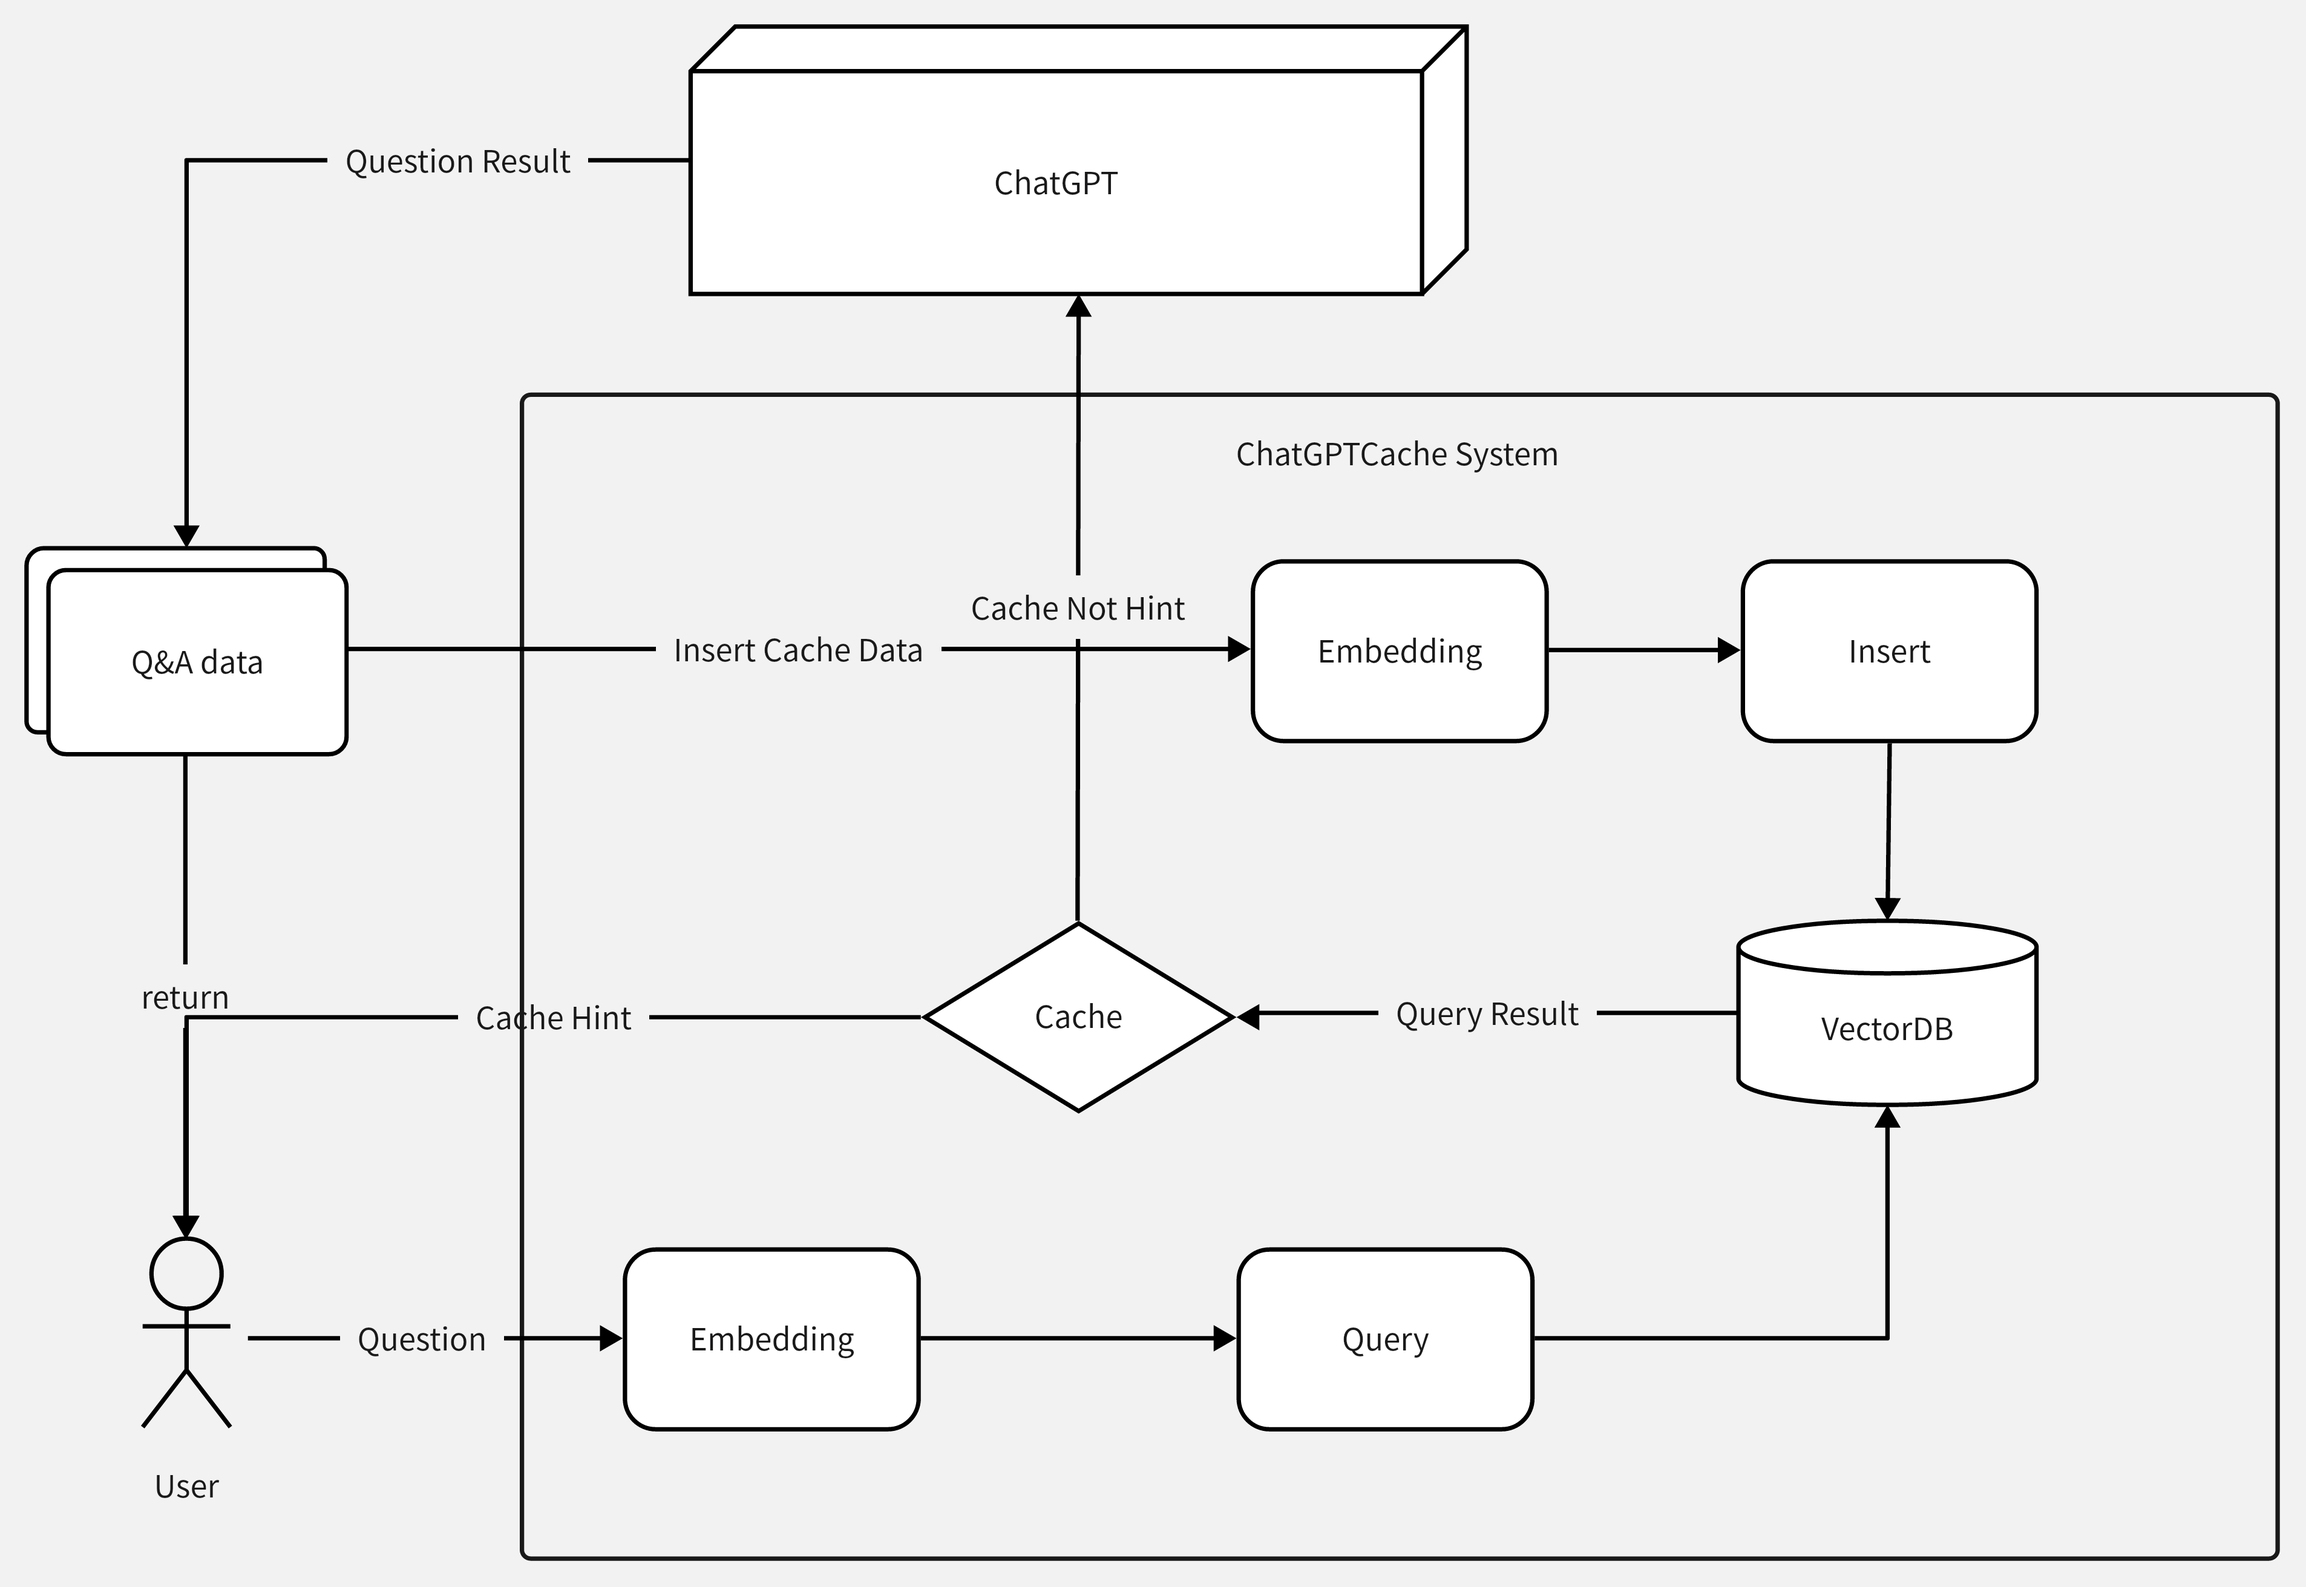
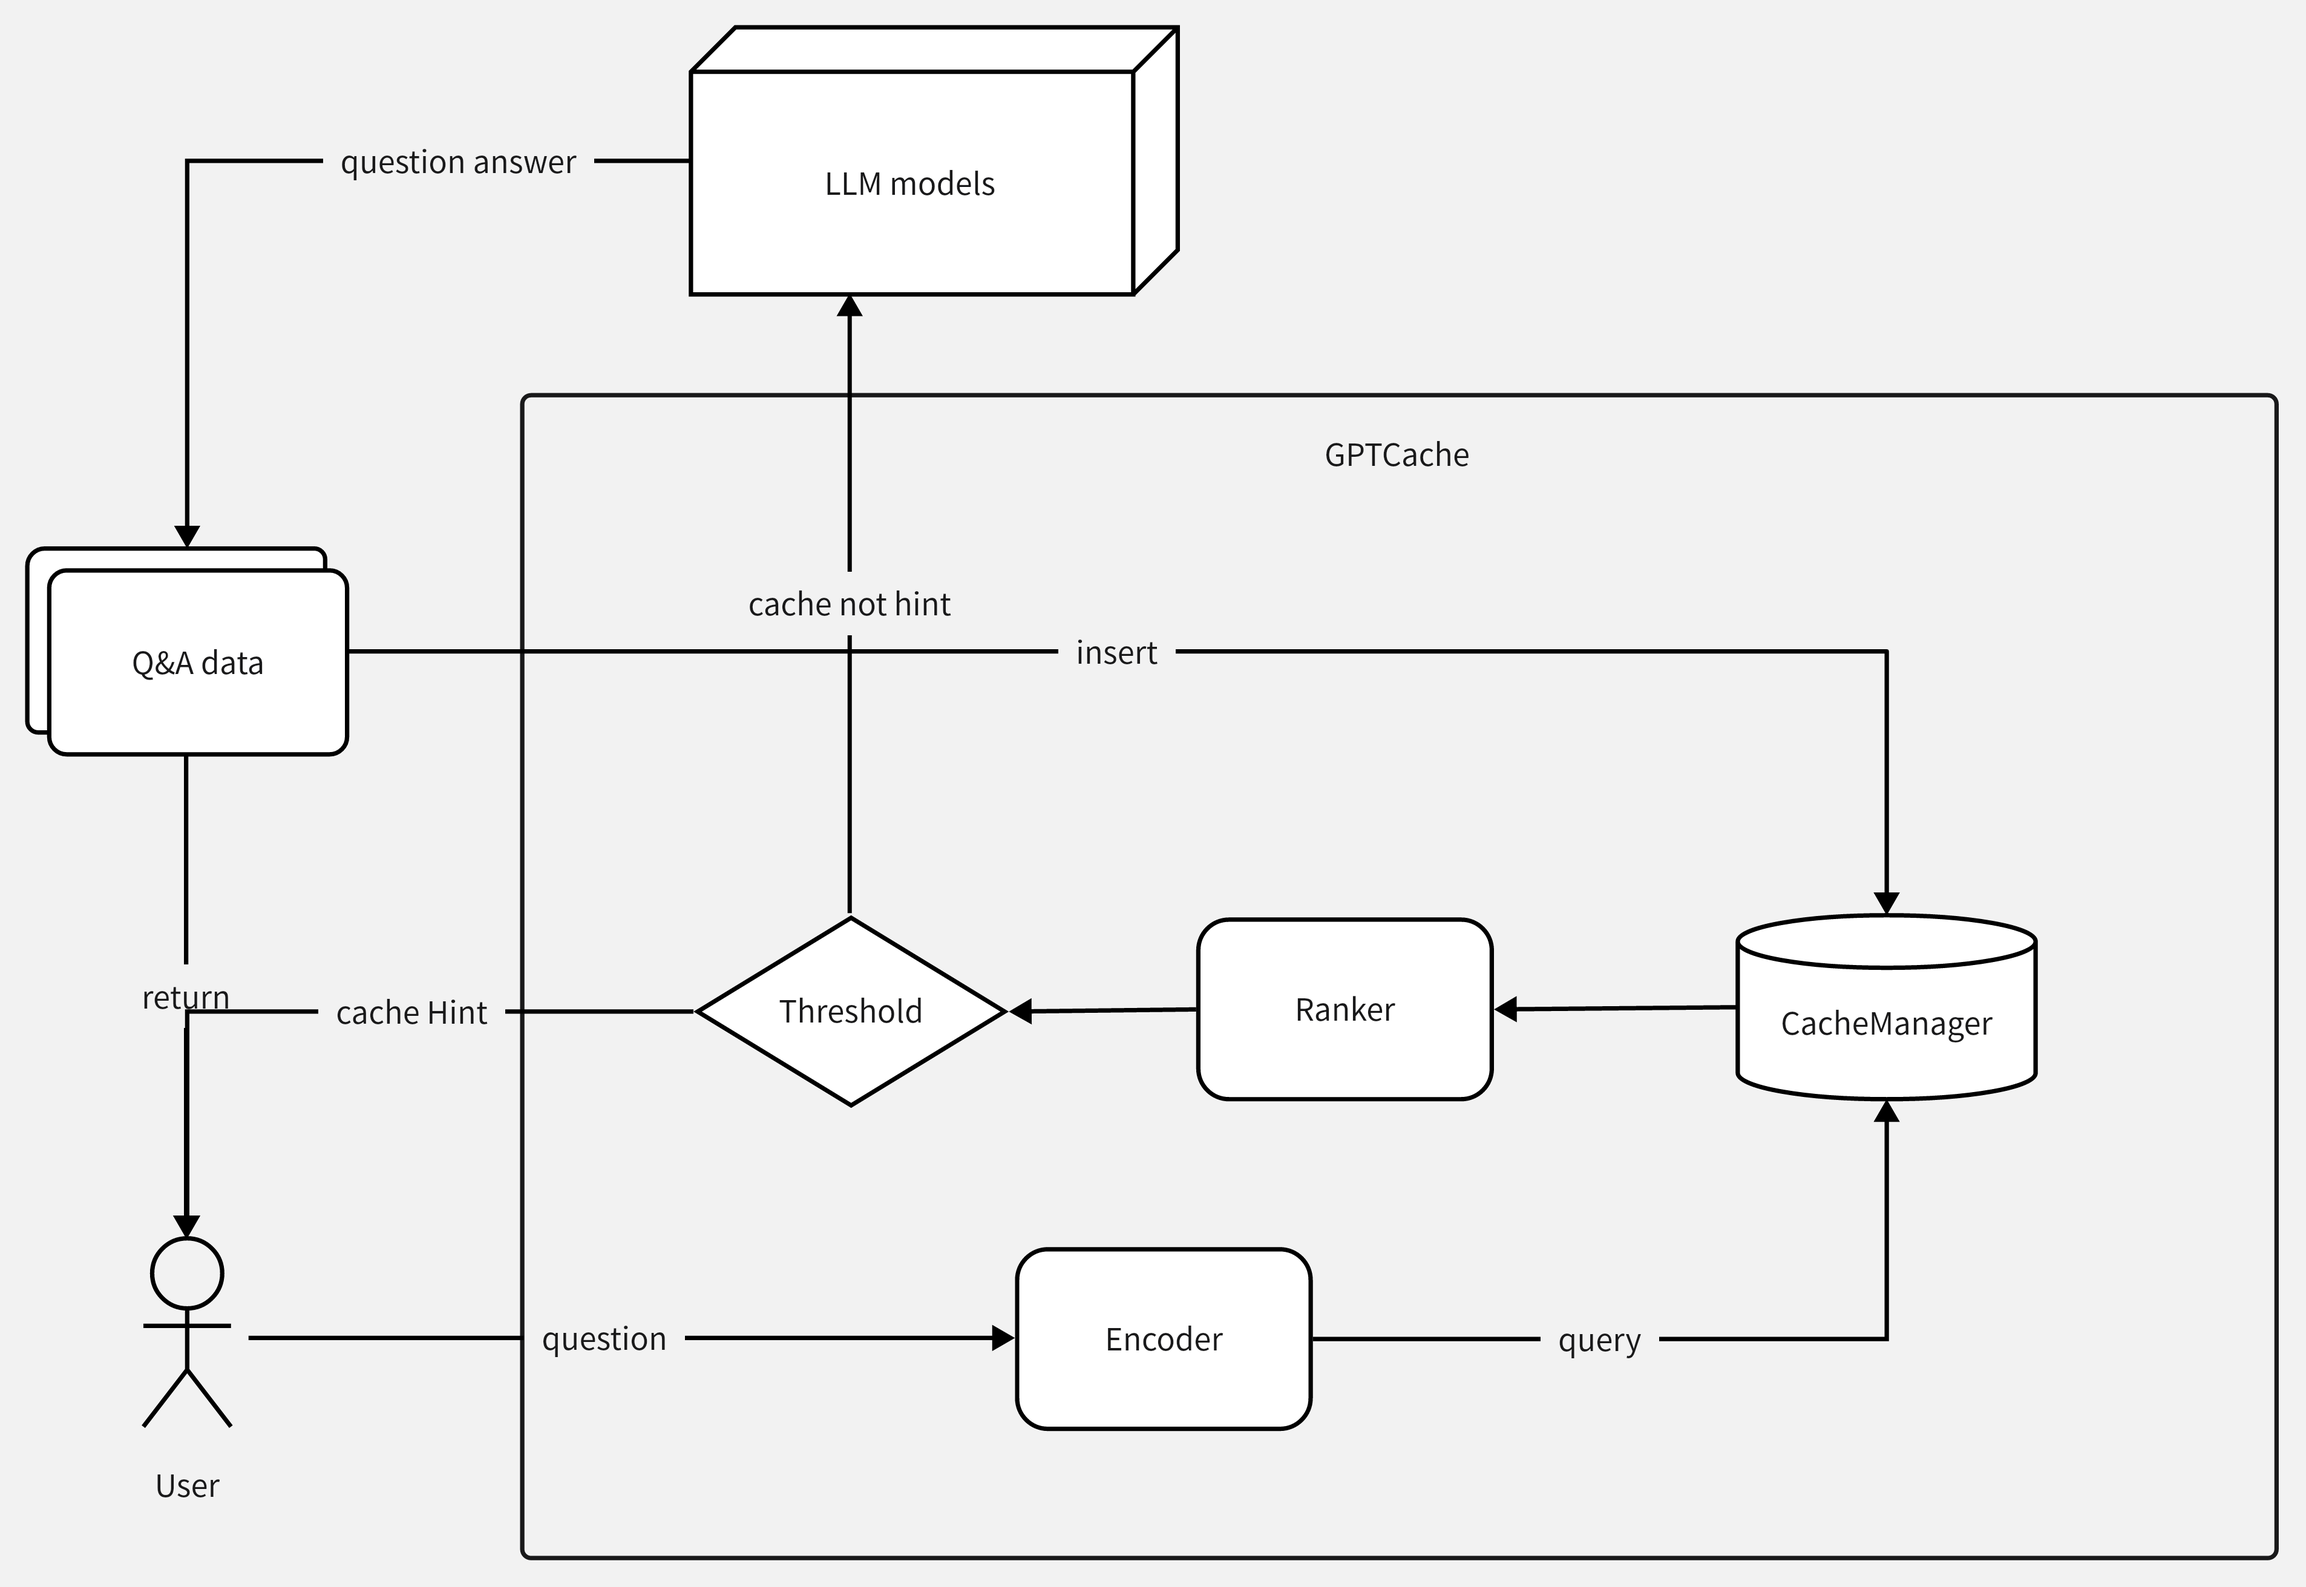
Rename modules and add cache exception

diff --git a/gptcache/cache/factory.py b/gptcache/cache/factory.py
@@ -1,6 +1,7 @@
 from .data_manager import DataManager, SIDataManager, SSDataManager
 from .scalar_data.sqllite3 import SQLite
 from .vector_data import Milvus, Faiss
+from ..util.error import NotFoundStoreError, ParamError
 
 
 def get_data_manager(data_manager_name: str, **kwargs) -> DataManager:
@@ -8,14 +9,15 @@ def get_data_manager(data_manager_name: str, **kwargs) -> DataManager:
         from .data_manager import MapDataManager
 
         return MapDataManager(kwargs.get("data_path", "data_map.txt"),
-                              kwargs.get("max_size", 100))
+                              kwargs.get("max_size", 100),
+                              kwargs.get("get_data_container", None))
     elif data_manager_name == "scalar_vector":
         scalar_store = kwargs.get("scalar_store", None)
         vector_store = kwargs.get("vector_store", None)
         max_size = kwargs.get("max_size", 1000)
         clean_size = kwargs.get("clean_size", int(max_size * 0.2))
         if scalar_store is None or vector_store is None:
-            raise ValueError(f"Missing scalar_store or vector_store parameter for scalar_vector")
+            raise ParamError(f"Missing scalar_store or vector_store parameter for scalar_vector")
         return SSDataManager(max_size, clean_size, scalar_store, vector_store)
     elif data_manager_name == "scalar_vector_index":
         scalar_store = kwargs.get("scalar_store", None)
@@ -23,10 +25,10 @@ def get_data_manager(data_manager_name: str, **kwargs) -> DataManager:
         max_size = kwargs.get("max_size", 1000)
         clean_size = kwargs.get("clean_size", int(max_size * 0.2))
         if scalar_store is None or vector_index is None:
-            raise ValueError(f"Missing scalar_store or vector_index parameter for scalar_vector_index")
+            raise ParamError(f"Missing scalar_store or vector_index parameter for scalar_vector_index")
         return SIDataManager(max_size, clean_size, scalar_store, vector_index)
     else:
-        raise ValueError(f"Unsupported data manager: {data_manager_name}")
+        raise NotFoundStoreError("data manager", data_manager_name)
 
 
 def _get_scalar_store(scalar_store: str, **kwargs):
@@ -35,7 +37,7 @@ def _get_scalar_store(scalar_store: str, **kwargs):
         eviction_strategy = kwargs.get("eviction_strategy", "least_accessed_data")
         store = SQLite(sqlite_path, eviction_strategy)
     else:
-        raise ValueError(f"Unsupported scalar store: {scalar_store}")
+        raise NotFoundStoreError("scalar store", scalar_store)
     return store
 
 
@@ -45,7 +47,7 @@ def _get_common_params(**kwargs):
     top_k = kwargs.get("top_k", 1)
     dimension = kwargs.get("dimension", 0)
     if dimension <= 0:
-        raise ValueError(f"the data manager should set the 'dimension' parameter greater than zero, "
+        raise ParamError(f"the data manager should set the 'dimension' parameter greater than zero, "
                          f"current: {dimension}")
     return max_size, clean_size, dimension, top_k
 
@@ -57,7 +59,7 @@ def get_ss_data_manager(scalar_store: str, vector_store: str, **kwargs):
     if vector_store == "milvus":
         vector = Milvus(collection_name="gptcache", dim=dimension, top_k=top_k, **kwargs)
     else:
-        raise ValueError(f"Unsupported vector store: {vector_store}")
+        raise NotFoundStoreError("vector store", vector_store)
     return SSDataManager(max_size, clean_size, scalar, vector)
 
 
@@ -70,6 +72,6 @@ def get_si_data_manager(scalar_store: str, vector_index: str, **kwargs):
         index_path = kwargs.get("index_path", "faiss.index")
         index = Faiss(index_path, dimension, top_k)
     else:
-        raise ValueError(f"Unsupported vector index: {vector_index}")
+        raise NotFoundStoreError("vector index", vector_index)
 
     return SIDataManager(max_size, clean_size, store, index)

diff --git a/gptcache/core.py b/gptcache/core.py
@@ -3,12 +3,12 @@ import os
 import time
 
 import openai
-from .embedding.pre_embedding import last_content
-from .embedding.string import to_embeddings as string_embedding
+from .encoder.string import to_embeddings as string_embedding
 from .cache.data_manager import DataManager
 from .cache.factory import get_data_manager
-from .similarity_evaluation.string import absolute_evaluation
-from .post_process.post_process import first
+from .processor.post import first
+from .processor.pre import last_content
+from .ranker.string import absolute_evaluation
 
 
 def cache_all(*args, **kwargs):
@@ -67,6 +67,7 @@ class Report:
 class Cache:
     # it should be called when start the cache system
     def __init__(self):
+        self.has_init = False
         self.cache_enable_func = None
         self.pre_embedding_func = None
         self.embedding_func = None
@@ -92,6 +93,7 @@ class Cache:
              next_cache=None,
              **kwargs
              ):
+        self.has_init = True
         self.cache_enable_func = cache_enable_func
         self.pre_embedding_func = pre_embedding_func
         self.embedding_func = embedding_func

diff --git a/example/sqlite_faiss_towhee/sqlite_faiss_towhee.py b/example/sqlite_faiss_towhee/sqlite_faiss_towhee.py
@@ -1,11 +1,11 @@
 import os
 import time
 
-from gptcache.view import openai
+from gptcache.adapter import openai
 from gptcache.core import cache
 from gptcache.cache.factory import get_si_data_manager
-from gptcache.similarity_evaluation.simple import pair_evaluation
-from gptcache.embedding import Towhee
+from gptcache.ranker.simple import pair_evaluation
+from gptcache.encoder import Towhee
 
 
 def run():
@@ -29,13 +29,13 @@ def run():
         answer = "chatgpt is a good application"
         cache.data_manager.save(question, answer, cache.embedding_func(question))
 
-    # distance 77
+    # distance 0.77
     mock_messages = [
         {"role": "system", "content": "You are a helpful assistant."},
         {"role": "user", "content": "what do you feel like chatgpt"}
     ]
 
-    # distance 21
+    # distance 0.21
     # mock_messages = [
     #     {"role": "system", "content": "You are a helpful assistant."},
     #     {"role": "user", "content": "what do you think chatgpt"}

diff --git a/gptcache/adapter/adapter.py b/gptcache/adapter/adapter.py
@@ -1,10 +1,13 @@
 import logging
 
 from ..core import cache, time_cal
+from ..util.error import NotInitError
 
 
-def process(llm_handler, cache_data_convert, update_cache_callback, *args, **kwargs):
+def adapt(llm_handler, cache_data_convert, update_cache_callback, *args, **kwargs):
     chat_cache = kwargs.pop("cache_obj", cache)
+    if not chat_cache.has_init:
+        raise NotInitError()
     cache_enable = chat_cache.cache_enable_func(*args, **kwargs)
     context = kwargs.get("cache_context", {})
     embedding_data = None
@@ -47,7 +50,7 @@ def process(llm_handler, cache_data_convert, update_cache_callback, *args, **kwa
     next_cache = chat_cache.next_cache
     if next_cache:
         kwargs["cache_obj"] = next_cache
-        llm_data = process(llm_handler, cache_data_convert, update_cache_callback, *args, **kwargs)
+        llm_data = adapt(llm_handler, cache_data_convert, update_cache_callback, *args, **kwargs)
     else:
         llm_data = llm_handler(*args, **kwargs)
 

diff --git a/setup.py b/setup.py
@@ -17,10 +17,12 @@ def parse_requirements(file_name: str) -> List[str]:
 setuptools.setup(
     name="gptcache",
     packages=find_packages(),
-    version="0.1.1",
+    version="0.1.2",
     author="SimFG",
     author_email="bang.fu@zilliz.com",
-    description="GPT Cache, make your chatgpt services lower cost and faster",
+    description="GPT Cache, a powerful caching library that can be used to speed up and lower the cost of chat "
+                "applications that rely on the LLM service. GPT Cache works as a memcache for AIGC applications, "
+                "similar to how Redis works for traditional applications.",
     long_description=long_description,
     long_description_content_type="text/markdown",
     install_requires=parse_requirements('requirements.txt'),

diff --git a/example/benchmark/benchmark_sqlite_faiss_towhee.py b/example/benchmark/benchmark_sqlite_faiss_towhee.py
@@ -2,12 +2,12 @@ import json
 import os
 import time
 
-from gptcache.view import openai
+from gptcache.adapter import openai
 from gptcache.core import cache
 from gptcache.cache.factory import get_si_data_manager
-from gptcache.similarity_evaluation import Towhee as EvaluationTowhee
-from gptcache.embedding import Towhee as EmbeddingTowhee
-from gptcache.similarity_evaluation.simple import pair_evaluation
+from gptcache.ranker import Towhee as EvaluationTowhee
+from gptcache.encoder import Towhee as EmbeddingTowhee
+from gptcache.ranker.simple import pair_evaluation
 
 
 def run():

diff --git a/gptcache/util/error.py b/gptcache/util/error.py
@@ -1,0 +1,18 @@
+class CacheError(Exception):
+    def __init__(self, *args, **kwargs):
+        super().__init__(*args, **kwargs)
+
+
+class NotInitError(CacheError):
+    def __init__(self):
+        super().__init__("the cache should be inited before using")
+
+
+class NotFoundStoreError(CacheError):
+    def __init__(self, store_type, current_type_name):
+        super().__init__(f"Unsupported ${store_type}: {current_type_name}")
+
+
+class ParamError(CacheError):
+    def __init__(self, message):
+        super().__init__(message)

diff --git a/gptcache/adapter/openai.py b/gptcache/adapter/openai.py
@@ -2,7 +2,7 @@ from typing import Iterator
 
 import openai
 
-from .processor import process
+from .adapter import adapt
 
 
 class ChatCompletion:
@@ -30,7 +30,7 @@ class ChatCompletion:
 
                 return hook_openai_data(llm_data)
 
-        return process(llm_handler, cache_data_convert, update_cache_callback, *args, **kwargs)
+        return adapt(llm_handler, cache_data_convert, update_cache_callback, *args, **kwargs)
 
 
 def construct_resp_from_cache(return_message):

diff --git a/example/openai_request/openai_request.py b/example/openai_request/openai_request.py
@@ -3,9 +3,9 @@ import time
 
 from gptcache.cache.factory import get_data_manager, get_si_data_manager
 from gptcache.core import cache, Cache
-from gptcache.embedding import Towhee
-from gptcache.similarity_evaluation.simple import pair_evaluation
-from gptcache.view import openai
+from gptcache.encoder import Towhee
+from gptcache.ranker.simple import pair_evaluation
+from gptcache.adapter import openai
 
 
 def run():

diff --git a/example/sqlite_faiss_mock/sqlite_faiss_mock.py b/example/sqlite_faiss_mock/sqlite_faiss_mock.py
@@ -1,9 +1,9 @@
 import os
 
-from gptcache.view import openai
+from gptcache.adapter import openai
 from gptcache.core import cache, Config
 from gptcache.cache.factory import get_si_data_manager
-from gptcache.similarity_evaluation.simple import pair_evaluation
+from gptcache.ranker.simple import pair_evaluation
 import numpy as np
 
 

diff --git a/example/sqlite_milvus_mock/sqlite_milvus_mock.py b/example/sqlite_milvus_mock/sqlite_milvus_mock.py
@@ -1,9 +1,9 @@
 import os
 
-from gptcache.view import openai
+from gptcache.adapter import openai
 from gptcache.core import cache, Config
 from gptcache.cache.factory import get_ss_data_manager
-from gptcache.similarity_evaluation.simple import pair_evaluation
+from gptcache.ranker.simple import pair_evaluation
 import numpy as np
 
 

diff --git a/gptcache/encoder/__init__.py b/gptcache/encoder/__init__.py
@@ -2,7 +2,7 @@ __all__ = ['Towhee']
 
 from gptcache.util.lazy_import import LazyImport
 
-towhee = LazyImport('towhee', globals(), 'gptcache.embedding.towhee')
+towhee = LazyImport('towhee', globals(), 'gptcache.encoder.towhee')
 
 
 def Towhee(model="paraphrase-albert-small-v2"):
